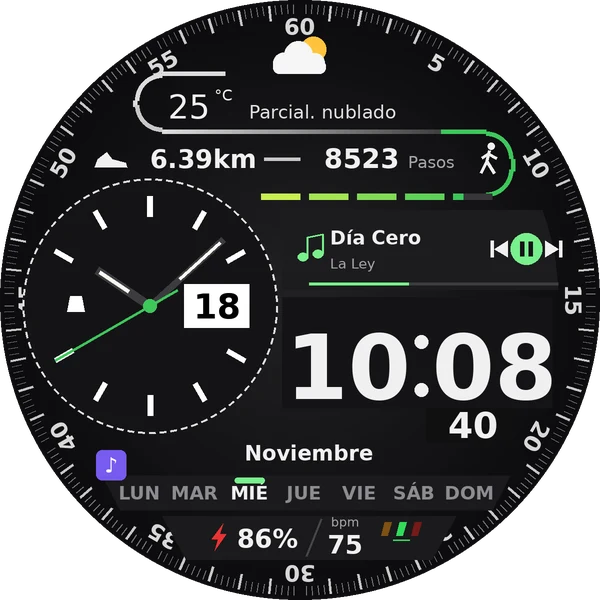
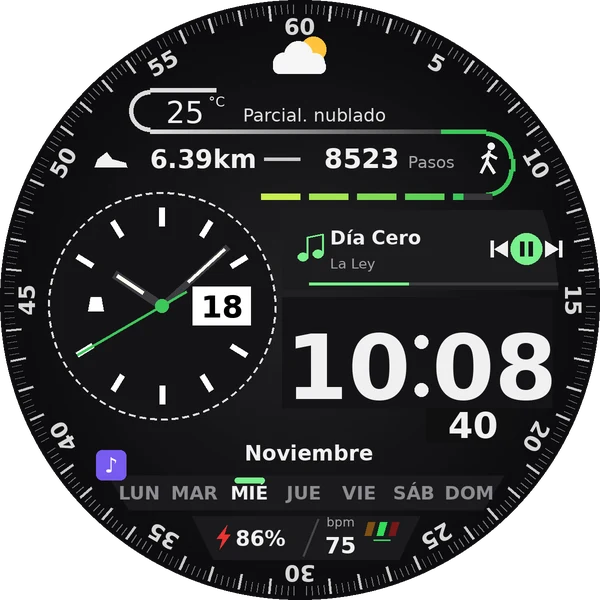
Pulso Híbrida: nada tapa los números del borde (clima, reloj de agujas y franja de abajo)
Claude-Session: https://claude.ai/code/session_01RTdv2VrACuR4VFWJLA57hx

diff --git a/android/esferas-de-reloj/hibrida/src/main/java/cl/carlospnauto/esfera/FaceService.kt b/android/esferas-de-reloj/hibrida/src/main/java/cl/carlospnauto/esfera/FaceService.kt
@@ -85,9 +85,9 @@ object Config : FaceConfig {
     override val slots = listOf(WEATHER to "Clima (arriba)", STEPS to "Pasos", EVENT to "Eventos", HEART to "Ritmo cardíaco")
     override val spots = listOf(
         Spot(-0.63f, 0.55f, Action.MUSIC, "Ícono de la izquierda", hit = 0.10f),
-        Spot(-0.745f, 0.02f, Action.ALARMS, "Campana (alarmas)", hit = 0.09f),
+        Spot(-0.68f, 0.02f, Action.ALARMS, "Campana (alarmas)", hit = 0.09f),
         Spot(0.40f, 0.20f, Action.MEDIA, "Toque en la hora", hit = 0.22f),
-        Spot(-0.20f, 0.82f, Action.BATTERY, "Batería", hit = 0.11f),
+        Spot(-0.14f, 0.80f, Action.BATTERY, "Batería", hit = 0.11f),
         Spot(0.03f, 0.53f, Action.TIMER, "Mes", hit = 0.09f),
     )
     override val choices = listOf(THEME, GOAL, MINI, AMB, Smooth.CHOICE)
@@ -308,21 +308,20 @@ class HybridRenderer(
         stroke.shader = LinearGradient(X(-0.55f), 0f, X(0.75f), 0f, Color.rgb(230, 230, 230), Color.rgb(60, 60, 62), Shader.TileMode.CLAMP)
         stroke.strokeWidth = r * 0.016f
         path.reset()
-        path.moveTo(X(-0.25f), Y(-0.755f))
-        path.lineTo(X(-0.46f), Y(-0.755f))
-        path.quadTo(X(-0.55f), Y(-0.755f), X(-0.55f), Y(-0.665f))
-        path.lineTo(X(-0.55f), Y(-0.645f))
-        path.quadTo(X(-0.55f), Y(-0.56f), X(-0.46f), Y(-0.56f))
+        path.moveTo(X(-0.28f), Y(-0.70f))
+        path.lineTo(X(-0.50f), Y(-0.70f))
+        path.quadTo(X(-0.57f), Y(-0.70f), X(-0.57f), Y(-0.63f))
+        path.quadTo(X(-0.57f), Y(-0.56f), X(-0.50f), Y(-0.56f))
         path.lineTo(X(0.47f), Y(-0.56f))
         canvas.drawPath(path, stroke)
         stroke.shader = null
         val temp = complications.textOf(WEATHER, context.resources)
         val wTitle = complications.titleOf(WEATHER, context.resources)
         val digits = temp?.filter { it.isDigit() || it == '-' }.orEmpty()
-        write(canvas, digits.ifEmpty { "--" }, X(-0.30f), Y(-0.605f), r * 0.11f, white, medium, Paint.Align.RIGHT)
-        write(canvas, if (temp?.contains("F") == true) "°F" else "°C", X(-0.285f), Y(-0.665f), r * 0.05f, white, medium, Paint.Align.LEFT)
+        write(canvas, digits.ifEmpty { "--" }, X(-0.32f), Y(-0.59f), r * 0.10f, white, medium, Paint.Align.RIGHT)
+        write(canvas, if (temp?.contains("F") == true) "°F" else "°C", X(-0.305f), Y(-0.645f), r * 0.045f, white, medium, Paint.Align.LEFT)
         // Estado del clima (o «elige el clima en Personalizar»)
-        write(canvas, wTitle ?: if (temp == null) "Elige el clima en Personalizar" else "", X(-0.17f), Y(-0.605f), r * 0.062f, Color.rgb(225, 225, 225), medium, Paint.Align.LEFT, maxW = r * 0.62f)
+        write(canvas, wTitle ?: if (temp == null) "Elige el clima en Personalizar" else "", X(-0.19f), Y(-0.595f), r * 0.06f, Color.rgb(225, 225, 225), medium, Paint.Align.LEFT, maxW = r * 0.62f)
 
         // ===== Pasos, distancia y meta =====
         // Corchete naranja a la derecha
@@ -449,7 +448,7 @@ class HybridRenderer(
         write(canvas, t.month.getDisplayName(TextStyle.FULL_STANDALONE, loc).replaceFirstChar { it.uppercase(loc) }, X(0.03f), Y(0.535f), r * 0.07f, white, bold, Paint.Align.CENTER)
         fill.color = Color.rgb(26, 26, 28)
         path.reset()
-        path.moveTo(X(-0.66f), Y(0.585f)); path.lineTo(X(0.70f), Y(0.585f)); path.lineTo(X(0.64f), Y(0.70f)); path.lineTo(X(-0.60f), Y(0.70f)); path.close()
+        path.moveTo(X(-0.64f), Y(0.585f)); path.lineTo(X(0.68f), Y(0.585f)); path.lineTo(X(0.61f), Y(0.70f)); path.lineTo(X(-0.57f), Y(0.70f)); path.close()
         canvas.drawPath(path, fill)
         val days = DayOfWeek.values()
         for ((i, d) in days.withIndex()) {
@@ -470,24 +469,24 @@ class HybridRenderer(
         // ===== Batería y ritmo cardíaco =====
         fill.color = Color.rgb(26, 26, 28)
         path.reset()
-        path.moveTo(X(-0.46f), Y(0.72f)); path.lineTo(X(0.52f), Y(0.72f)); path.lineTo(X(0.44f), Y(0.865f)); path.lineTo(X(-0.38f), Y(0.865f)); path.close()
+        path.moveTo(X(-0.36f), Y(0.72f)); path.lineTo(X(0.40f), Y(0.72f)); path.lineTo(X(0.33f), Y(0.865f)); path.lineTo(X(-0.29f), Y(0.865f)); path.close()
         canvas.drawPath(path, fill)
         stroke.color = Color.rgb(70, 70, 74)
         stroke.strokeWidth = r * 0.008f
-        canvas.drawLine(X(0.07f), Y(0.73f), X(0.02f), Y(0.855f), stroke)
+        canvas.drawLine(X(0.06f), Y(0.73f), X(0.01f), Y(0.855f), stroke)
         val pct = battery?.getIntProperty(BatteryManager.BATTERY_PROPERTY_CAPACITY) ?: -1
-        drawBolt(canvas, X(-0.27f), Y(0.79f), r * 0.045f, Color.rgb(235, 50, 50))
-        write(canvas, if (pct >= 0) "$pct%" else "--", X(-0.21f), Y(0.825f), r * 0.085f, white, bold, Paint.Align.LEFT)
+        drawBolt(canvas, X(-0.255f), Y(0.79f), r * 0.04f, Color.rgb(235, 50, 50))
+        write(canvas, if (pct >= 0) "$pct%" else "--", X(-0.215f), Y(0.82f), r * 0.07f, white, bold, Paint.Align.LEFT)
         val hrTxt = complications.textOf(HEART, context.resources)?.filter { it.isDigit() }?.takeIf { it.isNotEmpty() }
             ?: heart.bpm.takeIf { it > 0 }?.toString()
         val hr = hrTxt?.toIntOrNull() ?: 0
-        write(canvas, "bpm", X(0.15f), Y(0.755f), r * 0.042f, grey, medium, Paint.Align.CENTER)
-        write(canvas, hrTxt ?: "--", X(0.15f), Y(0.845f), r * 0.085f, white, bold, Paint.Align.CENTER)
+        write(canvas, "bpm", X(0.135f), Y(0.755f), r * 0.042f, grey, medium, Paint.Align.CENTER)
+        write(canvas, hrTxt ?: "--", X(0.135f), Y(0.845f), r * 0.075f, white, bold, Paint.Align.CENTER)
         // Zona del ritmo: bajo (naranja), normal (verde), alto (rojo)
         val zone = when { hr <= 0 -> -1; hr < 60 -> 0; hr <= 100 -> 1; else -> 2 }
         val zc = listOf(Color.rgb(255, 160, 40), Color.rgb(50, 220, 90), Color.rgb(235, 50, 50))
         for (k in 0 until 3) {
-            val x0 = X(0.27f + k * 0.05f)
+            val x0 = X(0.215f + k * 0.04f)
             path.reset()
             path.moveTo(x0 + r * 0.012f, Y(0.74f)); path.lineTo(x0 + r * 0.035f, Y(0.74f)); path.lineTo(x0 + r * 0.023f, Y(0.785f)); path.lineTo(x0, Y(0.785f)); path.close()
             fill.color = if (k == zone) zc[k] else a(zc[k], 120)
@@ -500,7 +499,7 @@ class HybridRenderer(
         }
 
         // ===== Reloj de agujas con fecha y alarma =====
-        drawAnalog(canvas, X(-0.50f), Y(0.02f), r * 0.425f, r, t, th, ambient)
+        drawAnalog(canvas, X(-0.46f), Y(0.02f), r * 0.38f, r, t, th, ambient)
 
         // Siempre activa: la esfera completa, más tenue
         if (ambient) canvas.drawColor(Color.argb(160, 0, 0, 0))
